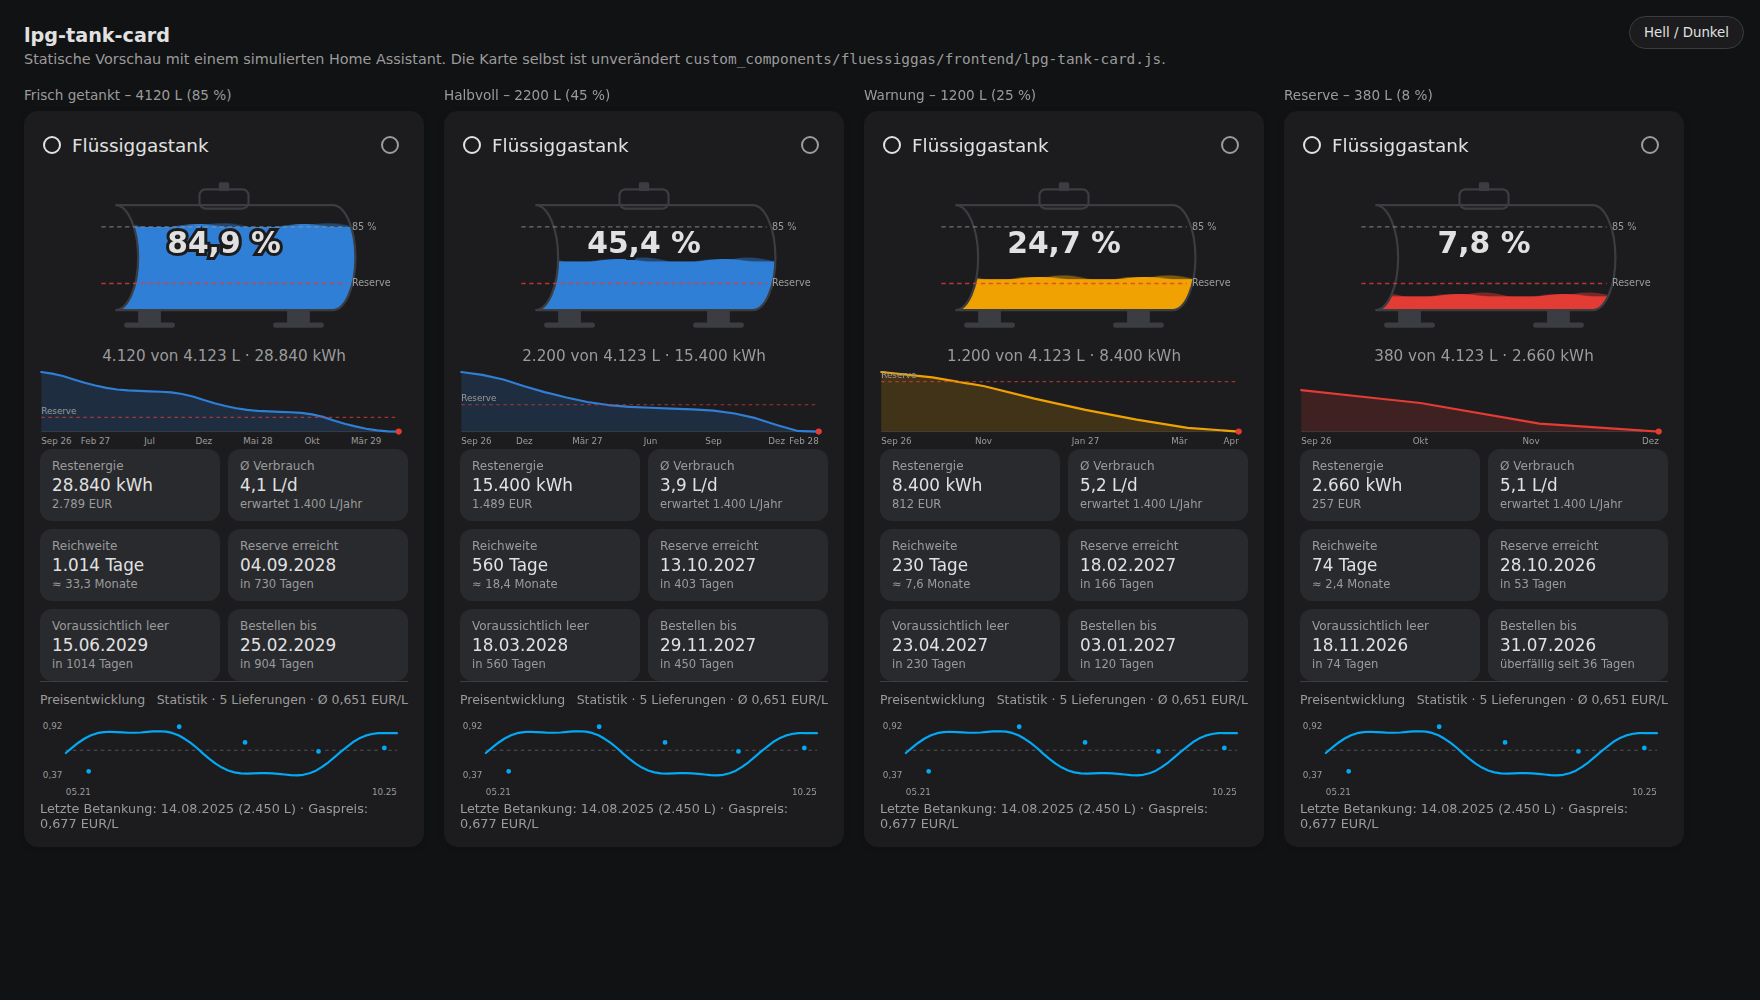
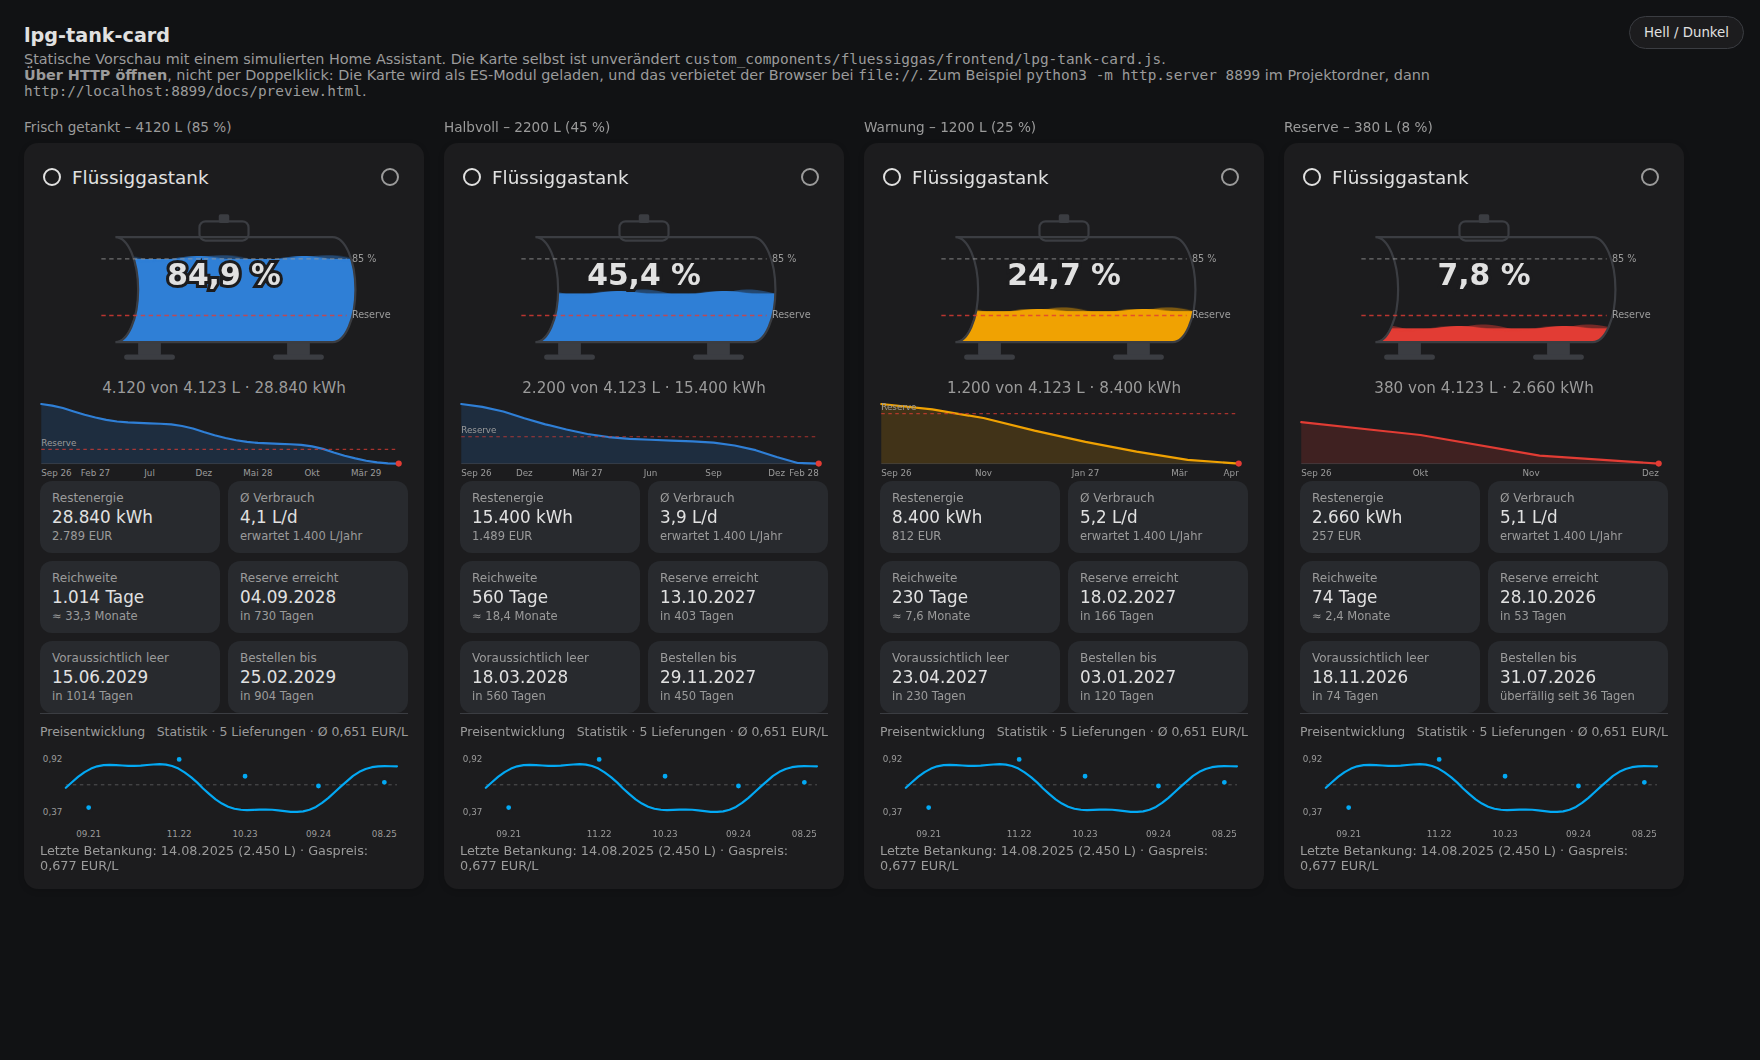
Karte zwischenspeichern lassen, Preisdiagramm mit Fadenkreuz
Die Karte fiel weiterhin sporadisch aus und kam nach ein- bis zweimal
Neuladen wieder, unabhängig von Browser, Gerät und Protokoll. Das Frontend
gibt einer Custom Card genau zwei Sekunden, sich zu registrieren
(TIMEOUT = 2000 in create-element-base.ts), danach erscheint "custom element
doesn't exist".

Die statische Route war mit cache_headers=False angemeldet, Home Assistant
sendete also gar keine Cache-Header - der Browser lud die knapp 40 kB bei
jedem Seitenaufruf neu. Auf einem beschäftigten System reichen zwei Sekunden
dafür nicht zuverlässig. Jetzt mit Cache-Headern, was gefahrlos ist, weil die
URL die Version trägt: Nach einem Update ändert sich die URL, dazwischen kommt
die Datei aus dem lokalen Cache.

Preisdiagramm: Jede Betankung trägt ihr Datum an der Achse statt nur Anfang
und Ende der Spanne; überlappende Beschriftungen werden ausgelassen. Ein
Zeiger über dem Diagramm - Maus oder Finger - blendet ein Fadenkreuz am
nächstgelegenen Datenpunkt ein, mit Datum, Preis und bei einer Betankung der
Liefermenge, wie in den Verlaufsdiagrammen von Home Assistant.

Claude-Session: https://claude.ai/code/session_0116cQYFWHYwN5ejBXDYbpBk

diff --git a/custom_components/fluessiggas/frontend/lpg-tank-card.js b/custom_components/fluessiggas/frontend/lpg-tank-card.js
@@ -237,6 +237,10 @@ class LpgTankCard extends HTMLElement {
         .p-schnitt { stroke: var(--secondary-text-color); stroke-width: 1;
                      stroke-dasharray: 4 4; opacity: .5; }
         .p-text { fill: var(--secondary-text-color); font-size: 10px; }
+        .p-kreuz { stroke: var(--primary-text-color); stroke-width: 1; opacity: .45; }
+        .p-treffer { fill: var(--primary-color); stroke: var(--card-background-color); stroke-width: 2; }
+        .p-box { fill: var(--card-background-color); stroke: var(--divider-color); stroke-width: 1; }
+        .p-boxtext { fill: var(--primary-text-color); font-size: 11px; }
         .p-wert { fill: var(--primary-text-color); font-size: 11px; font-weight: 500; }
 
         .kacheln {
@@ -486,6 +490,15 @@ class LpgTankCard extends HTMLElement {
       e[`m-${k}`].addEventListener("click", () => modus(k)));
 
     e["f-speichern"].addEventListener("click", () => this._speichern());
+
+    // Fadenkreuz im Preisdiagramm. Einmal gebunden, die Zeichnung darin wird
+    // bei jeder Aktualisierung neu aufgebaut.
+    if (e.preise) {
+      ["pointerdown", "pointermove"].forEach((typ) =>
+        e.preise.addEventListener(typ, (ev) => this._preisMarker(ev)));
+      ["pointerleave", "pointercancel"].forEach((typ) =>
+        e.preise.addEventListener(typ, () => this._preisMarkerAus()));
+    }
   }
 
   /* ------------------------------------------------------------ Aktionen */
@@ -795,11 +808,16 @@ class LpgTankCard extends HTMLElement {
         liter: l && l.liter,
       }))
       .filter((l) => l.datum && !isNaN(l.preis))
-      .map((l) => ({ t: l.datum.getTime(), preis: l.preis, liter: l.liter }));
+      .map((l) => ({ t: l.datum.getTime(), preis: l.preis, liter: l.liter, tanken: true }))
+      .sort((a, b) => a.t - b.t);
 
     const ausStatistik = statistik.length >= 2;
     const linie = (ausStatistik ? statistik : lieferungen).slice().sort((a, b) => a.t - b.t);
-    if (!c.preisverlauf || linie.length < 2) { block.hidden = true; return; }
+    if (!c.preisverlauf || linie.length < 2) {
+      block.hidden = true;
+      this._preisDaten = null;
+      return;
+    }
     block.hidden = false;
 
     const alle = linie.concat(lieferungen);
@@ -810,7 +828,7 @@ class LpgTankCard extends HTMLElement {
     const min = Math.min(...preise), max = Math.max(...preise);
     const spanne = Math.max(max - min, 0.01);
 
-    const B = 420, H = 104, l = 34, r = 8, o = 12, u = 20;
+    const B = 420, H = 116, l = 34, r = 8, o = 12, u = 26;
     const x = (t) => l + ((t - tMin) / tSpanne) * (B - l - r);
     const y = (v) => o + (1 - (v - min + spanne * 0.15) / (spanne * 1.3)) * (H - o - u);
 
@@ -820,26 +838,99 @@ class LpgTankCard extends HTMLElement {
     const schnitt = linie.reduce((a, p) => a + p.preis, 0) / linie.length;
 
     const punkte = lieferungen.map((p) =>
-      `<circle class="p-punkt-letzt" cx="${x(p.t).toFixed(1)}" cy="${y(p.preis).toFixed(1)}" r="4">` +
-      `<title>${this._datumText(new Date(p.t))}: ${this._fmt(p.preis, 3, "EUR/L")}` +
-      `${p.liter ? ` · ${this._fmt(p.liter, 0, "L")}` : ""}</title></circle>`).join("");
+      `<circle class="p-punkt-letzt" cx="${x(p.t).toFixed(1)}" cy="${y(p.preis).toFixed(1)}" r="4"/>`
+    ).join("");
 
+    // Jede Betankung bekommt ihr Datum an die Achse - übersprungen nur, wo es
+    // sich sonst überlappen würde. Ohne Betankungen die Spanne der Linie.
     const lang = (this._hass.locale && this._hass.locale.language) || "de";
     const kurz = (t) => new Date(t).toLocaleDateString(lang, { month: "2-digit", year: "2-digit" });
+    let beschriftung = "";
+    if (lieferungen.length) {
+      let letztesX = -999;
+      beschriftung = lieferungen.map((p) => {
+        const px = Math.min(Math.max(x(p.t), l + 12), B - r - 12);
+        if (px - letztesX < 38) return "";
+        letztesX = px;
+        return `<text class="p-text" x="${px.toFixed(1)}" y="${H - 6}" text-anchor="middle">${kurz(p.t)}</text>`;
+      }).join("");
+    } else {
+      beschriftung =
+        `<text class="p-text" x="${l}" y="${H - 6}">${kurz(tMin)}</text>` +
+        `<text class="p-text" x="${B - r}" y="${H - 6}" text-anchor="end">${kurz(tMax)}</text>`;
+    }
 
+    svg.setAttribute("viewBox", `0 0 ${B} ${H}`);
     svg.innerHTML = `
       <line class="p-schnitt" x1="${l}" y1="${y(schnitt).toFixed(1)}" x2="${B - r}" y2="${y(schnitt).toFixed(1)}"/>
       <text class="p-text" x="${l - 4}" y="${(y(max) + 3).toFixed(1)}" text-anchor="end">${this._fmt(max, 2)}</text>
       <text class="p-text" x="${l - 4}" y="${(y(min) + 3).toFixed(1)}" text-anchor="end">${this._fmt(min, 2)}</text>
-      <path class="p-linie" d="${pfad}"/>${punkte}
-      <text class="p-text" x="${l}" y="${H - 6}">${kurz(tMin)}</text>
-      <text class="p-text" x="${B - r}" y="${H - 6}" text-anchor="end">${kurz(tMax)}</text>`;
+      <path class="p-linie" d="${pfad}"/>${punkte}${beschriftung}
+      <g id="p-marker"></g>
+      <rect id="p-hit" x="${l}" y="0" width="${(B - l - r).toFixed(1)}" height="${H - u}"
+            fill="transparent" style="cursor:crosshair;touch-action:none"/>`;
+
+    // Für das Fadenkreuz: Skalen und Punkte merken, die Zeichnung wird ja bei
+    // jeder Zustandsänderung neu aufgebaut.
+    this._preisDaten = { punkte: alle.slice().sort((a, b) => a.t - b.t), x, y, B, H, l, r, u };
 
     const anzahl = lieferungen.length;
-    this._el["preis-spanne"].textContent = ausStatistik
-      ? `Statistik · ${anzahl} ${anzahl === 1 ? "Lieferung" : "Lieferungen"} · Ø ${this._fmt(schnitt, 3, "EUR/L")}`
-      : `${anzahl} ${anzahl === 1 ? "Lieferung" : "Lieferungen"} · Ø ${this._fmt(schnitt, 3, "EUR/L")}`;
+    this._el["preis-spanne"].textContent = (ausStatistik ? "Statistik · " : "") +
+      `${anzahl} ${anzahl === 1 ? "Lieferung" : "Lieferungen"} · Ø ${this._fmt(schnitt, 3, "EUR/L")}`;
   }
+
+  /**
+   * Fadenkreuz wie im Verlaufsdiagramm von Home Assistant: senkrechte Linie am
+   * nächstgelegenen Datenpunkt, dazu Datum, Preis und - bei einer Betankung -
+   * die Menge.
+   */
+  _preisMarker(ev) {
+    const d = this._preisDaten;
+    const svg = this._el.preise;
+    if (!d || !svg) return;
+    const marker = svg.querySelector("#p-marker");
+    if (!marker) return;
+
+    const kasten = svg.getBoundingClientRect();
+    if (!kasten.width) return;
+    const ux = ((ev.clientX - kasten.left) / kasten.width) * d.B;
+
+    let treffer = null, abstand = Infinity;
+    for (const p of d.punkte) {
+      const dist = Math.abs(d.x(p.t) - ux);
+      // Betankungen gewinnen bei Gleichstand - sie sind die interessantere Zahl
+      if (dist < abstand || (dist === abstand && p.tanken)) { abstand = dist; treffer = p; }
+    }
+    if (!treffer) return;
+
+    const px = d.x(treffer.t), py = d.y(treffer.preis);
+    const lang = (this._hass.locale && this._hass.locale.language) || "de";
+    const text = new Date(treffer.t).toLocaleDateString(lang, {
+      day: "2-digit", month: "2-digit", year: "numeric",
+    }) + " · " + this._fmt(treffer.preis, 3, "EUR/L") +
+      (treffer.liter ? ` · ${this._fmt(treffer.liter, 0, "L")}` : "");
+
+    // Kasten links vom Punkt, wenn rechts kein Platz mehr ist, und in jedem
+    // Fall innerhalb der Zeichenfläche
+    const breite = Math.max(text.length * 5.6 + 14, 96);
+    const bx = Math.min(
+      Math.max(px + breite + 8 > d.B - d.r ? px - breite - 6 : px + 6, 2),
+      d.B - breite - 2,
+    );
+
+    marker.innerHTML = `
+      <line class="p-kreuz" x1="${px.toFixed(1)}" y1="6" x2="${px.toFixed(1)}" y2="${d.H - d.u}"/>
+      <circle class="p-treffer" cx="${px.toFixed(1)}" cy="${py.toFixed(1)}" r="5"/>
+      <rect class="p-box" x="${bx.toFixed(1)}" y="4" width="${breite.toFixed(1)}" height="19" rx="5"/>
+      <text class="p-boxtext" x="${(bx + 6).toFixed(1)}" y="17">${text}</text>`;
+  }
+
+  _preisMarkerAus() {
+    const svg = this._el.preise;
+    const marker = svg && svg.querySelector("#p-marker");
+    if (marker) marker.innerHTML = "";
+  }
+
 
   /** "2024-01" auf die Monatsmitte legen, damit die Punkte mittig sitzen. */
   _monat(text) {

diff --git a/docs/preview.html b/docs/preview.html
@@ -183,6 +183,15 @@ window.addEventListener("load", () => {
     karte.setConfig({ type: "custom:lpg-tank-card" });
     karte.hass = hassMit(titel.split(" ")[0].toLowerCase(), liter, tage);
     // #formular bzw. #nachtragen öffnet zum Ansehen das Betankungsformular
+    if (location.hash.includes("marker")) {
+      // erst nach dem Layout, vorher hat das SVG noch keine Breite
+      setTimeout(() => {
+        const svg = karte.shadowRoot.getElementById("preise");
+        const b = svg.getBoundingClientRect();
+        svg.dispatchEvent(new PointerEvent("pointermove",
+          { clientX: b.left + b.width * 0.62, clientY: b.top + 20, bubbles: true }));
+      }, 400);
+    }
     if (location.hash.includes("formular") || location.hash.includes("nachtragen")) {
       const w = karte.shadowRoot;
       w.getElementById("knopf-form").click();

diff --git a/custom_components/fluessiggas/__init__.py b/custom_components/fluessiggas/__init__.py
@@ -161,8 +161,15 @@ async def _async_register_card(hass: HomeAssistant) -> None:
         # Erst nach der Prüfung merken, sonst bliebe ein einmaliger Fehlschlag
         # für den Rest der Laufzeit hängen.
         hass.data[KARTE_REGISTRIERT] = True
+        # Mit Cache-Headern: Das Frontend gibt einer Custom Card nur zwei
+        # Sekunden, bis sie sich registriert hat (TIMEOUT in
+        # create-element-base.ts), sonst erscheint "custom element doesn't
+        # exist". Ohne Header lud der Browser die Datei bei jedem Seitenaufruf
+        # neu - auf einem beschäftigten Home Assistant reicht das Fenster dann
+        # nicht. Die URL trägt die Version, ein Update wird also trotzdem
+        # sofort geholt.
         await hass.http.async_register_static_paths(
-            [StaticPathConfig(CARD_URL, str(pfad), cache_headers=False)]
+            [StaticPathConfig(CARD_URL, str(pfad), cache_headers=True)]
         )
         add_extra_js_url(hass, karten_url(hass))
         # bewusst auf info: Bei Ladeproblemen ist das die erste Frage -

diff --git a/docs/KONZEPT.md b/docs/KONZEPT.md
@@ -177,6 +177,34 @@ Unvermeidbar bleibt: Direkt nach der *Erst*installation muss die Seite einmal
 neu geladen werden (Strg+F5). Ein bereits ausgeliefertes HTML kann kein
 Skript-Tag nachwachsen lassen.
 
+### Das Zwei-Sekunden-Fenster
+
+Damit war es aber nicht erledigt: Die Karte fiel weiterhin sporadisch aus und
+kam nach ein- bis zweimal Neuladen wieder – unabhängig von Browser, Gerät und
+davon, ob HTTP oder HTTPS. Die Erklärung steht im Frontend-Quelltext
+(`create-element-base.ts`):
+
+```js
+const timer = window.setTimeout(() => { … }, TIMEOUT);   // TIMEOUT = 2000
+customElements.whenDefined(tag).then(() => { clearTimeout(timer); … });
+```
+
+Eine Custom Card hat **zwei Sekunden**, um sich zu registrieren. Danach
+erscheint „custom element doesn't exist". Kommt sie später doch noch, wird die
+Karte zwar neu aufgebaut – aber der Fehler war zwischenzeitlich sichtbar, und
+in der Kartenauswahl bleibt er stehen.
+
+Der Fehler lag bei der Auslieferung: Die statische Route war mit
+`cache_headers=False` angemeldet, Home Assistant sendete also **gar keine**
+Cache-Header. Der Browser lud die knapp 40 kB bei *jedem* Seitenaufruf neu. Auf
+einem beschäftigten Home Assistant – etwa direkt nach dem Start, wenn der
+Recorder arbeitet – reichen zwei Sekunden dafür nicht zuverlässig.
+
+Mit `cache_headers=True` liefert Home Assistant langlebige Cache-Header. Das
+ist hier gefahrlos, weil die URL die Version trägt (`?v=1.4.0`): Nach einem
+Update ändert sich die URL, der Browser holt die Datei neu, und dazwischen
+kommt sie aus dem lokalen Cache statt über das Netz.
+
 ## Gaspreis: vorhandener Helfer oder eigene Entität
 
 Der Preis ist überall EUR je Liter – Anzeige wie Eingabe. Woher er kommt, ist

diff --git a/docs/INSTALLATION.md b/docs/INSTALLATION.md
@@ -175,6 +175,7 @@ sonst passiert das alle sechs Stunden von allein.
 | Füllstand sinkt nicht | Falscher Quellsensor – prüfe, ob *Verbrauch seit Betankung* steigt. |
 | Füllstand sinkt zu schnell | Faktor L/m³ – bei der nächsten Betankung die Tankuhr vorher angeben. |
 | Reichweite `unknown` | Rechnerisch mehr als sechs Jahre, oder Jahresverbrauch 0. |
+| Karte erscheint sporadisch nicht | Sollte seit 1.4.0 behoben sein: Die Kartendatei wird jetzt vom Browser zwischengespeichert. Das Frontend gibt einer Custom Card nur zwei Sekunden, und ohne Cache wurde sie bei jedem Seitenaufruf neu geladen. |
 | Karte nicht im Picker, „custom element doesn't exist" | Einmalig nach dem Update auf 1.2.0: Der Service Worker des Frontends liefert Seiten aus einem 24-Stunden-Cache. In der Companion-App *Einstellungen → Companion App → Frontend-Cache zurücksetzen*, im Browser Strg+F5 bzw. Websitedaten löschen. Ab 1.2.0 kommt die Karte über die Ressourcenliste (Websocket, nicht gecacht) und das Problem verschwindet. |
 | „Keine Integration gefunden" | Der Tank ist noch nicht eingerichtet. |
 | Meldung „Statistiksumme gesunken" | Die Statistik der Quelle wurde gelöscht oder neu aufgebaut; die Integration setzt den Bezugspunkt nach. Danach den Füllstand einmal korrigieren. |

diff --git a/README.md b/README.md
@@ -68,6 +68,10 @@ Reserve erreicht ist, **gelb** unterhalb der einstellbaren *Warnschwelle*
 (Vorgabe 30 % der Tankuhr). Rot hat bewusst keine eigene Einstellung – sonst
 könnten Farbe und Bestellfrist auseinanderlaufen.
 
+Im Preisdiagramm trägt jede Betankung ihr Datum an der Achse, und ein Zeiger
+darüber – Maus oder Finger – blendet ein Fadenkreuz mit Datum, Preis und
+Liefermenge ein, wie in den Verlaufsdiagrammen von Home Assistant.
+
 Die Karte zeigt sechs Kennzahlen unter dem Tank – Restenergie, Ø Verbrauch,
 Reichweite, **Reserve erreicht**, voraussichtlich leer und Bestellfrist – sowie
 darunter die Preisentwicklung, sobald zwei Lieferungen mit Preis eingetragen sind.
